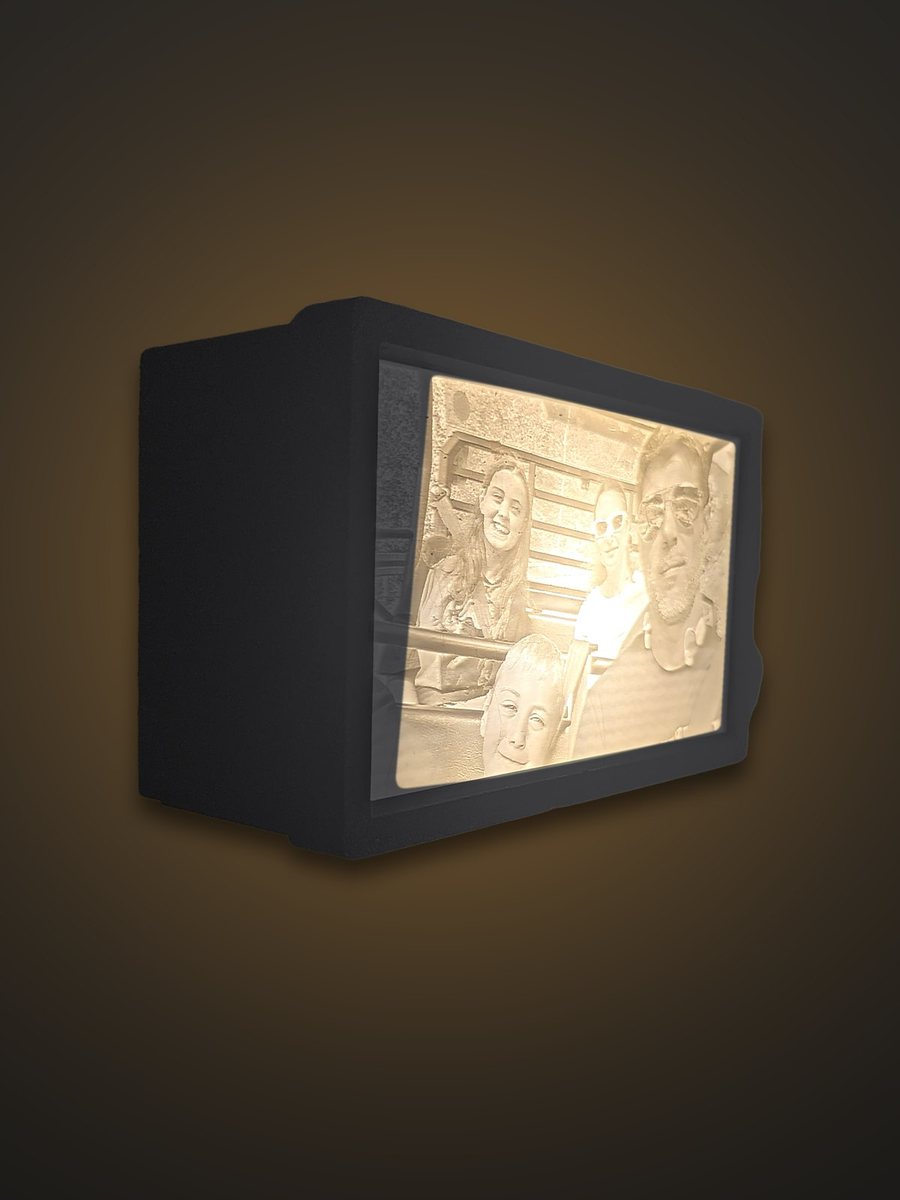
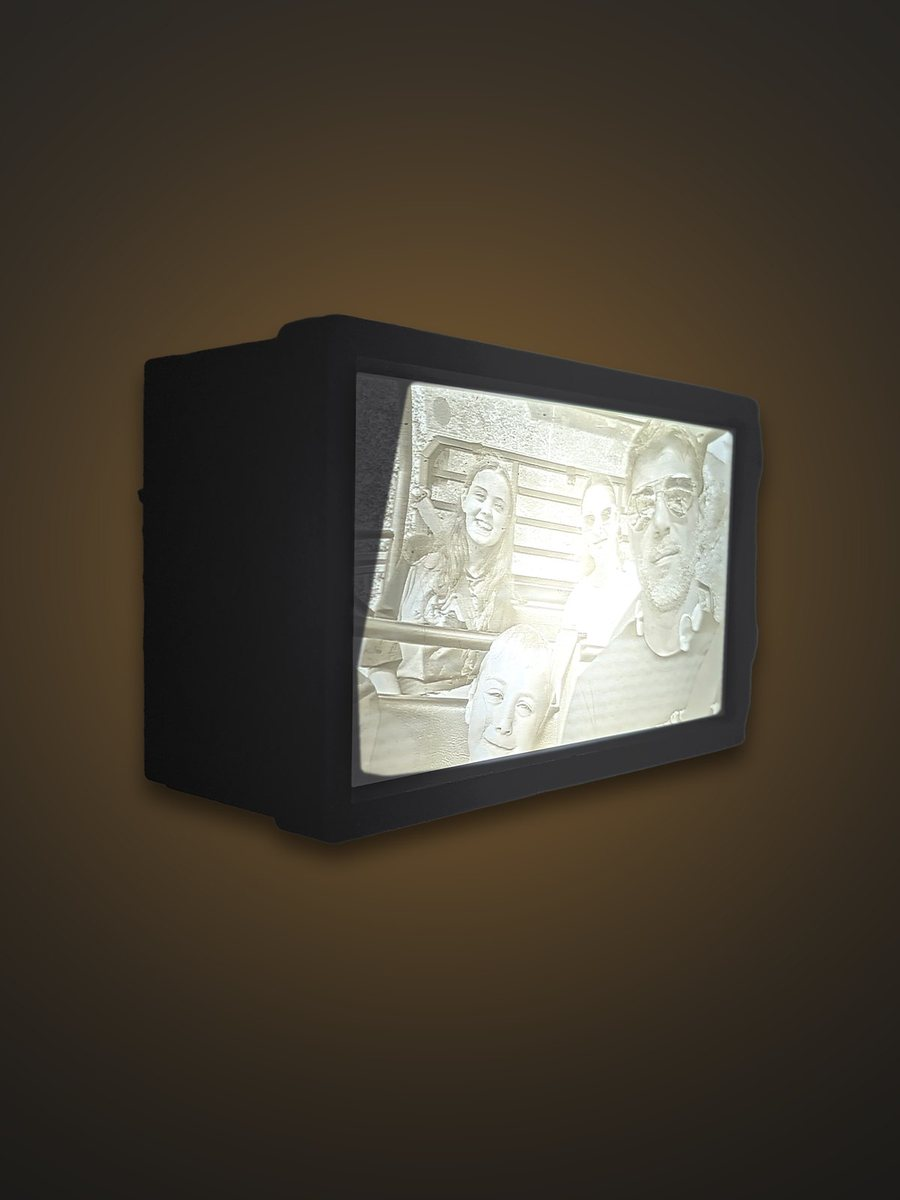
Frame: room photo first, clean cut-out, likely colours only
- Lithophane frame uses a cleaner source photo (straight edges) and shows
  the bedroom photo first, then the studio photo; both switch colour
- Each product offers only its 2-3 most likely colours, with a note that
  other colours are available on request (in the order notes)
- Palette gains beige, terracotta, sage and gold; drops red/blue/green/pink

Changed region(s): [[0.1556, 0.2467, 0.8711, 0.74], [0.1556, 0.4625, 0.28, 0.7092]]

diff --git a/index.html b/index.html
@@ -237,6 +237,7 @@
     .swatch:hover { transform: scale(1.12); }
     .swatch.active { outline: 2px solid var(--amber); outline-offset: 2px; }
     .swatch-label { font-size: 0.78rem; color: var(--muted); margin-inline-start: 0.25rem; }
+    .swatch-more { flex-basis: 100%; font-size: 0.72rem; color: var(--muted); opacity: 0.8; }
     .badge {
       position: absolute; top: 1rem; right: 1rem;
       background: var(--amber); color: #1A1A1A;
@@ -621,9 +622,11 @@
 
       // מתנות בהתאמה אישית
       { id:22, name:"מסגרת ליתופן מוארת", category:"gift", price:"₪229", desc:"התמונה שלכם מודפסת בעוביים משתנים בתוך מסגרת מוארת — כבויה נראית לבנה, דולקת חושפת את התמונה בפרטי פרטים. בחרו את צבע המסגרת.",
-        variants:[{img:"images/litho-frame-white.jpg", label:"סטודיו"},{img:"images/litho-frame-room.jpg", label:"בחדר"}], photosOnly:true,
-        colors:["white","black","grey","red","blue","green","pink"],
-        colorImgs:{white:"images/litho-frame-white.jpg", black:"images/litho-frame-black.jpg", grey:"images/litho-frame-grey.jpg", red:"images/litho-frame-red.jpg", blue:"images/litho-frame-blue.jpg", green:"images/litho-frame-green.jpg", pink:"images/litho-frame-pink.jpg"},
+        variants:[{img:"images/litho-frame-room-white.jpg", label:"בחדר"},{img:"images/litho-frame-white.jpg", label:"סטודיו"}], photosOnly:true,
+        colors:["white","black","grey"],
+        colorImgs:{white:["images/litho-frame-room-white.jpg","images/litho-frame-white.jpg"],
+                   black:["images/litho-frame-room-black.jpg","images/litho-frame-black.jpg"],
+                   grey:["images/litho-frame-room-grey.jpg","images/litho-frame-grey.jpg"]},
         badge:"מומלץ למתנה" },
       { id:23, name:"מנורת שם", category:"gift", price:"₪179", desc:"שם או מילה באותיות תלת-מימד מוארות, על בסיס עץ עם חריטת לייזר של תאריך או הקדשה.", emoji:"✨", badge:null },
       { id:24, name:"מנורת לילה לחדר ילדים", category:"gift", price:"₪159", desc:"דמות חמודה (דינוזאור, ענן, חללית) עם שם הילד. אור חם ועמום ומעטפת בטוחה לחלוטין.", emoji:"🦕", badge:null },
@@ -653,32 +656,46 @@
     };
     let currentFilter = 'all';
 
-    // Filament colours customers can choose. A product offers them via `colors` (list of keys);
-    // `colorImgs` (optional) shows a photo of that colour as the first image.
+    // Filament colours. A product offers the few most likely ones via `colors` (first = default);
+    // any other colour can be ordered on request. `colorImgs` (optional): colour → photos, one per variant.
     const FILAMENT = {
       white: { name: 'לבן', hex: '#EEECE6' }, black: { name: 'שחור', hex: '#262628' }, grey: { name: 'אפור', hex: '#8C8F93' },
-      red: { name: 'אדום', hex: '#C12E1F' }, blue: { name: 'כחול', hex: '#0A5BA8' }, green: { name: 'ירוק', hex: '#3E8E41' },
-      pink: { name: 'ורוד', hex: '#E8A0B4' },
+      beige: { name: 'בז׳', hex: '#D9C9A8' }, terracotta: { name: 'טרקוטה', hex: '#B5603C' },
+      sage: { name: 'ירוק מרווה', hex: '#9DAE8B' }, gold: { name: 'זהב', hex: '#C9A24B' },
     };
-    // Products printed in an opaque colour (shades, decor, desk) offer the whole palette.
-    [2, 14, 15, 16, 6, 26, 27, 28, 29, 30, 31, 7].forEach(id => {
-      const p = products.find(x => x.id === id);
-      if (p && !p.colors) p.colors = Object.keys(FILAMENT);
+    // The colours each product is most likely to be bought in.
+    const LIKELY_COLORS = {
+      2: ['white', 'black', 'beige'],         // helix pendant
+      14: ['white', 'black', 'beige'],        // XL bell pendant
+      15: ['white', 'black', 'gold'],         // fractal pendant
+      16: ['white', 'beige', 'sage'],         // origami pendant
+      7: ['black', 'white'],                  // arc desk lamp
+      6: ['gold', 'white', 'black'],          // honeycomb vase
+      26: ['white', 'terracotta', 'sage'],    // self-watering planter
+      27: ['white', 'black', 'terracotta'],   // key tray
+      28: ['black', 'white', 'grey'],         // headphone stand
+      29: ['black', 'white', 'grey'],         // phone stand
+      30: ['white', 'black', 'sage'],         // desk organizer
+      31: ['black', 'white'],                 // work lamp
+    };
+    Object.entries(LIKELY_COLORS).forEach(([id, colors]) => {
+      const p = products.find(x => x.id === Number(id));
+      if (p && !p.colors) p.colors = colors;
     });
 
     function activeColor(p) { return p.colors ? (p.activeColor || p.colors[0]) : null; }
 
     function productImage(p, variantIdx) {
       const c = activeColor(p);
-      if (c && p.colorImgs && p.colorImgs[c] && variantIdx === 0) return p.colorImgs[c];
+      const imgs = c && p.colorImgs && p.colorImgs[c];
+      if (imgs) return Array.isArray(imgs) ? imgs[Math.min(variantIdx, imgs.length - 1)] : (variantIdx === 0 ? imgs : p.variants[variantIdx].img);
       return p.variants ? p.variants[variantIdx].img : p.img;
     }
 
     function selectColor(productId, key) {
       const p = products.find(x => x.id === productId);
       if (!p) return;
-      p.activeColor = key;
-      if (p.colorImgs) p.activeVariant = 0;          // show the photo of the chosen colour
+      p.activeColor = key;                      // the photo being viewed switches to this colour
       renderProducts(currentFilter);
     }
 
@@ -690,6 +707,7 @@
             role="radio" aria-checked="${k === c}" aria-label="${FILAMENT[k].name}" title="${FILAMENT[k].name}"
             onclick="event.stopPropagation(); selectColor(${p.id}, '${k}')"></button>`).join('')}
         <span class="swatch-label">צבע: ${FILAMENT[c].name}</span>
+        <span class="swatch-more">צבעים נוספים לפי בקשה — כתבו בהערות להזמנה</span>
       </div>`;
     }
 
@@ -846,7 +864,8 @@
       itemsEl.innerHTML = cart.map((item, idx) => {
         const p = products.find(x => x.id === item.id);
         const v = p.variants && p.variants.find(x => x.label === item.variant);
-        const img = (item.color && p.colorImgs && p.colorImgs[item.color]) || (v ? v.img : productImage(p, 0));
+        const cImgs = item.color && p.colorImgs && p.colorImgs[item.color];
+        const img = (Array.isArray(cImgs) ? cImgs[0] : cImgs) || (v ? v.img : productImage(p, 0));
         return `
           <div class="cart-item">
             <div class="cart-thumb">${img ? `<img src="${img}" alt="" />` : p.emoji}</div>
